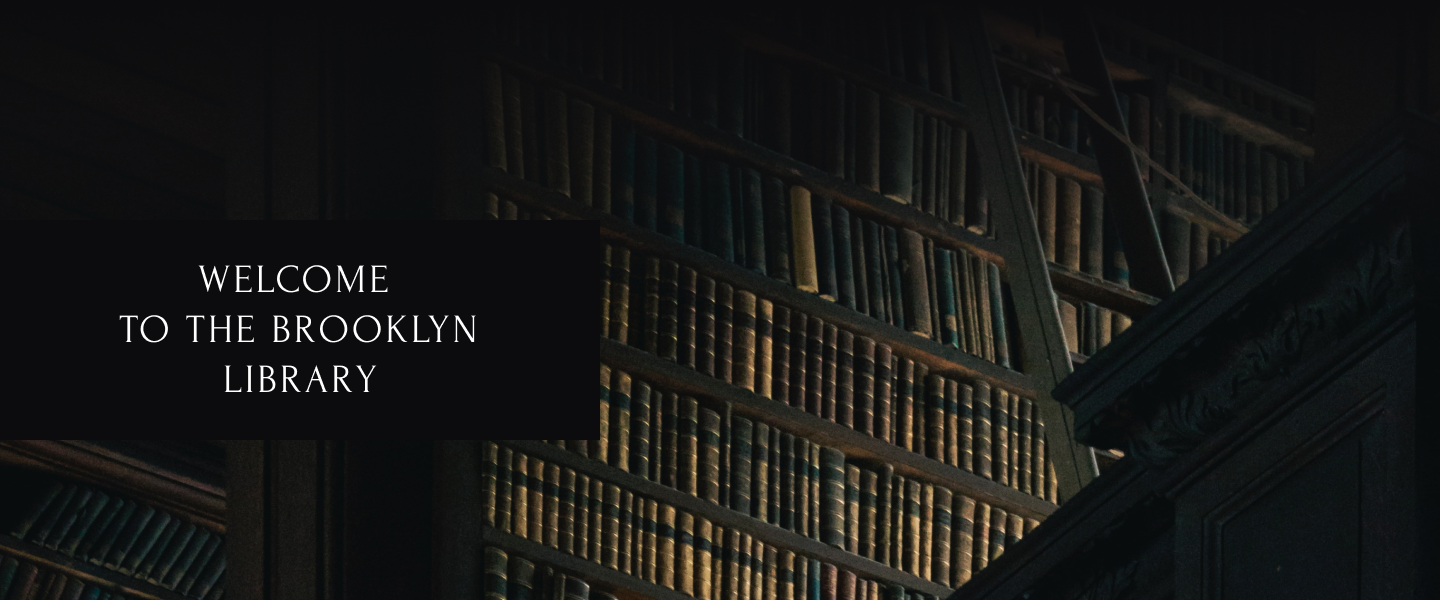
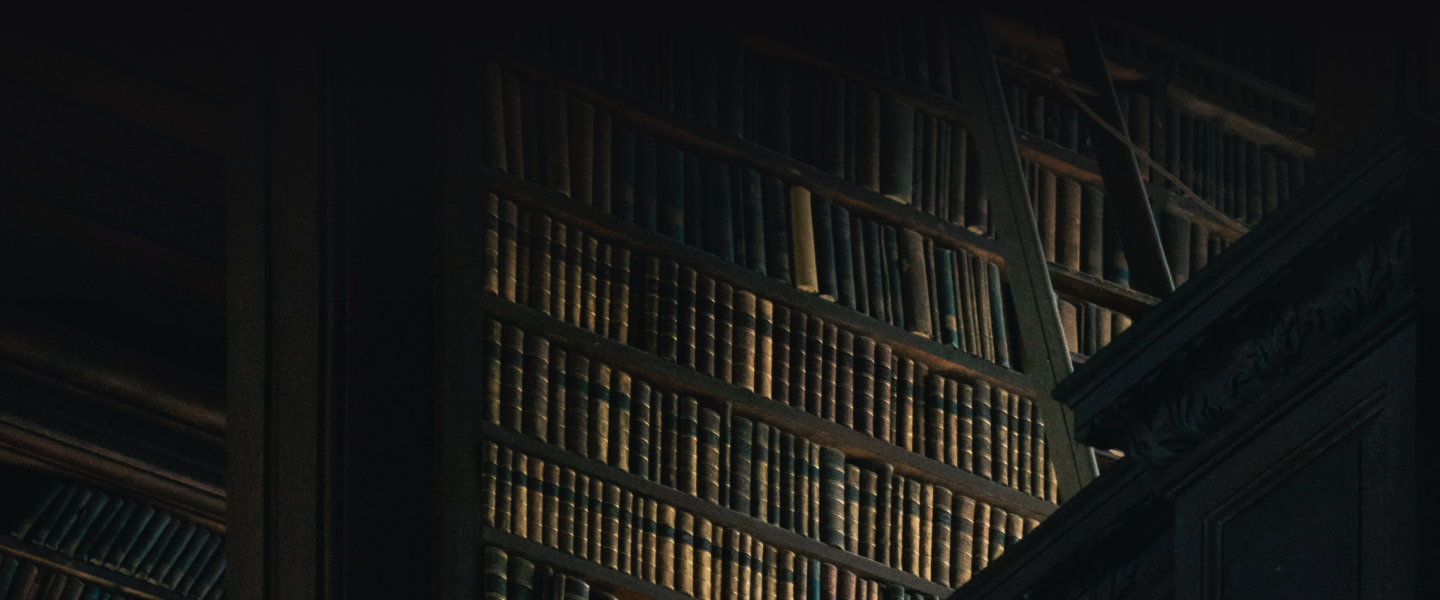
feat : add html, css files, section welcome

diff --git a/index.html b/index.html
@@ -5,31 +5,36 @@
     <meta name="viewport" content="width=device-width, initial-scale=1.0">
     <title>Library</title>
     <link rel="stylesheet" href="./style.css">
+    <link rel="preconnect" href="https://fonts.googleapis.com">
+<link rel="preconnect" href="https://fonts.gstatic.com" crossorigin>
+<link href="https://fonts.googleapis.com/css2?family=Forum&family=Inter:wght@400;700&display=swap" rel="stylesheet">
 </head>
 <body>
     <div class="wrapper">
     <header>
         <section class="welcome">
-            <nav>
-           
+            <nav>           
                 <div class="nav">
                     <div class="nav-title">
                         <p class="nav__title__item">Brooklyn Public Library</p>
                     </div>
                 <div class="nav__menu">
-                    <a href="#"class="nav-item">About</a>
-                    <a href="#" class="nav-item">Favorites</a>
-                    <a href="#" class="nav-item">Coffee shop</a>
-                    <a href="#" class="nav-item">Contacts</a>
-                    <a href="#" class="nav-item">Library Card</a>
+                    <li><a href="#"class="nav-item">About</a></li>
+                    <li><a href="#" class="nav-item">Favorites</a></li>
+                    <li><a href="#" class="nav-item">Coffee shop</a></li>
+                    <li><a href="#" class="nav-item">Contacts</a></li>
+                    <li><a href="#" class="nav-item">Library Card</a></li>
             
                     <img src="./img/icon_profile.png" 
                     alt="icon profile" 
                     class="nav__icon__item">            
                 </div>
                 </div>
+            </nav>
+            <div class="header__title">
+            <h1>Welcome <br>to the Brooklyn <br>Library</h1>
+            </div>
         </section>
-        </nav>
         <!-- #region welcme -->
         
         <!-- #endregion -->

diff --git a/style.css b/style.css
@@ -3,9 +3,15 @@
   padding: 0;
 }
 
+:root {
+  --font-family-headers : 'Forum', cursive;
+  --font-family-basic : 'Inter', sans-serif;
+}
+
 body {
-  width: 1440px;
+  max-width: 1440px;
   margin: 0 auto;
+  font-family: var(--font-family-basic);
 }
 
 .wrapper {
@@ -15,16 +21,25 @@ body {
   flex-shrink: 1;
 }
 
-.nav {
+/* #region header-welcome */
+.welcome {
   height: 600px;
-  display: flex;
-  justify-content: space-between;
-  align-items: flex-start;
-  padding: 20px;
   background-image: url('./img/welcome.png');
   background-size: cover;
   background-repeat: no-repeat;
   background-position: center;
+  display: flex;
+  flex-direction: column;
+  justify-content: space-between;
+}
+
+.nav {
+  
+  display: flex;
+  justify-content: space-between;
+  align-items: flex-start;
+  padding: 20px;
+  
 }
 
 .nav__title__item {
@@ -32,11 +47,18 @@ body {
   font-size: 30px;
   line-height: 50px;
   letter-spacing: 0.6px;
+  font-family: var(--font-family-headers);
 }
 
 .nav__menu {
   display: flex;
   gap: 30px;
+}
+
+.nav__menu li {
+  padding: 0;
+  margin: 0;
+  list-style: none;
 }
 
 .nav-item {
@@ -47,8 +69,30 @@ body {
 }
 
 .nav__icon__item {
+  
   width: 28px;
   height: 28px;
   margin-left: 10px;
   margin-top: 10px;
 }
+
+.header__title {
+width: 600px;
+height: 220px;
+margin-bottom: 160px;
+
+}
+
+h1 {
+color: #FFF;
+text-align: center;
+font-family: var(--font-family-headers);
+font-size: 40px;
+font-weight: 400;
+line-height: 50px;
+letter-spacing: 3px;
+text-transform: uppercase;
+margin: 35px 40px;
+background: #0C0C0E;
+}
+/* #endregion */
